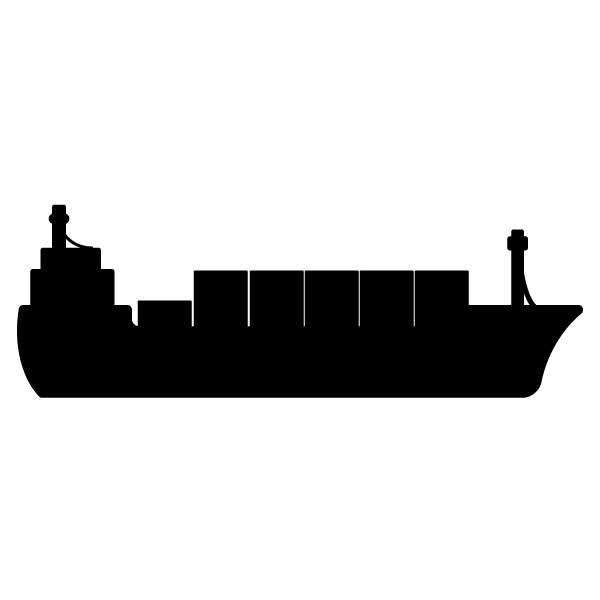
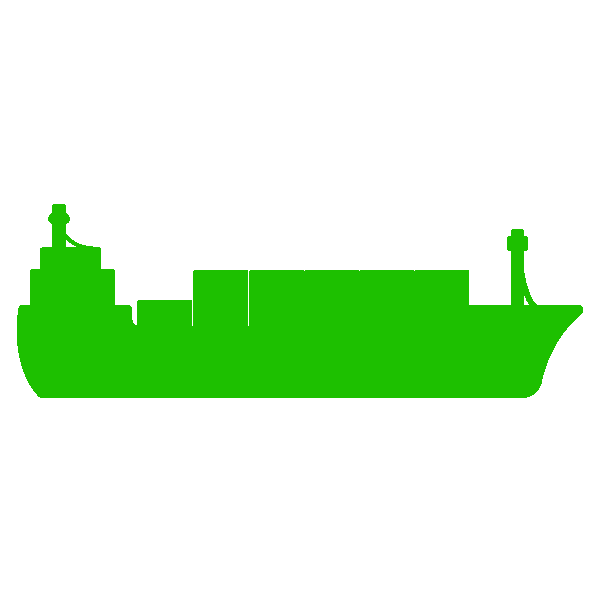
Fix bugs with clone() function. Update images with color.

Changed region(s): [[0.03, 0.33, 0.99, 0.69]]

diff --git a/src/js/simulation/Ships.js b/src/js/simulation/Ships.js
@@ -17,6 +17,15 @@ const MoveDirections = Object.freeze({
     West:  [-1, 0]
 });
 
+function cloneMoveDirection(mvDir) {
+    let ret = [];
+    for (let i = 0; i < mvDir.length; i++) {
+        const val = mvDir[i];
+        ret.push(val);
+    }
+    return ret;
+}
+
 // The default move directions for ships on spawn
 const ShipMoveDirections = Object.freeze({
     Cargo: MoveDirections.East,
@@ -102,12 +111,19 @@ class CargoShip extends Ship {
         for (let i = 0; i < frame.pirateList.length; i++) {
             const pirate = frame.pirateList[i];
             
-            // We can evade the pirate if all these conditions are met 
-            if (this.inRangeStrict(pirate, 4) && !this.evadedPirates.includes(pirate.UniqueID)) {
+            // We cannot evade a pirate twice
+            for (let i = 0; i < this.evadedPirates.length; i++) {
+                const UID = this.evadedPirates[i];
+                if (pirate.UniqueID == UID) {
+                    return;
+                }
+            }
+            if (this.inRangeStrict(pirate, 4)) {
                 // From the requirements it looks like we can only evade one pirate in a tick
                 // so we break out of this loop after evading a pirate
                 this.xPos = tempX;
                 this.yPos = tempY;
+                this.evadedPirates.push(pirate.UniqueID);
                 break;
             }
         }
@@ -116,7 +132,17 @@ class CargoShip extends Ship {
     // NOTE that clone() preserves the UID, so do not use it to create new entities,
     // rather it is meant to clone the entities between the frames
     clone() {
-        return new CargoShip(this.xPos, this.yPos, this.UniqueID);
+        let nShip = new CargoShip(this.xPos, this.yPos, this.UniqueID);
+        for (let i = 0; i < this.evadedPirates.length; i++) {
+            const num = this.evadedPirates[i];
+            nShip.evadedPirates.push(num);
+        }
+        nShip.moveDirection = [];
+        for (let i = 0; i < this.moveDirection.length; i++) {
+            const num = this.moveDirection[i];
+            nShip.moveDirection.push(num);
+        }
+        return nShip;
     }
 }
 
@@ -151,7 +177,13 @@ class PatrolShip extends Ship {
     // NOTE that clone() preserves the UID, so do not use it to create new entities,
     // rather it is meant to clone the entities between the frames
     clone() {
-        return new PatrolShip(this.xPos, this.yPos, this.UniqueID);
+        let nShip = new PatrolShip(this.xPos, this.yPos, this.UniqueID);
+        nShip.moveDirection = [];
+        for (let i = 0; i < this.moveDirection.length; i++) {
+            const num = this.moveDirection[i];
+            nShip.moveDirection.push(num);
+        }
+        return nShip;
     }
 }
 
@@ -172,7 +204,7 @@ class PirateShip extends Ship {
             if (this.inRangeLoose(cargo, 3)) {
                 frame.convertCargoToCapture(cargo, this);
                 this.hasCapture = true;
-                this.moveDirection = MoveDirections.South;
+                this.moveDirection = ShipMoveDirections.Capture;
                 this.xPos = cargo.xPos;
                 this.yPos = cargo.yPos;
                 // We can only capture one cargo per pirate, so if we find one, we are done
@@ -184,7 +216,14 @@ class PirateShip extends Ship {
     // NOTE that clone() preserves the UID, so do not use it to create new entities,
     // rather it is meant to clone the entities between the frames
     clone() {
-        return new PirateShip(this.xPos, this.yPos, this.UniqueID);
+        let nShip = new PirateShip(this.xPos, this.yPos, this.UniqueID);
+        nShip.hasCapture = this.hasCapture;
+        nShip.moveDirection = [];
+        for (let i = 0; i < this.moveDirection.length; i++) {
+            const num = this.moveDirection[i];
+            nShip.moveDirection.push(num);
+        }
+        return nShip;
     }
 }
 
@@ -201,6 +240,12 @@ class CaptureShip extends Ship {
     // NOTE that clone() preserves the UID, so do not use it to create new entities,
     // rather it is meant to clone the entities between the frames
     clone() {
-        return new CaptureShip(this.xPos, this.yPos, this.UniqueID);
+        let nShip = new CaptureShip(this.xPos, this.yPos, this.UniqueID, this.pirateUID);
+        nShip.moveDirection = [];
+        for (let i = 0; i < this.moveDirection.length; i++) {
+            const num = this.moveDirection[i];
+            nShip.moveDirection.push(num);
+        }
+        return nShip;
     }
 }

diff --git a/src/js/simulation/sketch.js b/src/js/simulation/sketch.js
@@ -10,6 +10,7 @@ let captureImage;
 // Graphics variables
 let scaleFactor = 1;
 let translateX = 0, translateY = 0;
+let worldXRatio, worldYRatio;
 
 function preload() {
     bgImage = loadImage("images/gulfofaden.png");
@@ -24,21 +25,37 @@ function setup() {
     createCanvas(screen.width, screen.width / 3, document.getElementById("P5-DRAWING-CANVAS"));
     background(0, 0, 0);
     simManager = new SimManager();
+    worldXRatio = screen.width / simManager.simulation.initialConditions.simDimensions[1];
+    worldYRatio = (screen.width / 3) / simManager.simulation.initialConditions.simDimensions[0];
 }
 
 function draw() {
     simManager.tick();
-    // put drawing code here
-    background(0, 0, 0);
-
-    lockToViewport();
 
     // Manage zooming relative to the mouse and panning
+    lockToViewport();
     translate(translateX, translateY);
     scale(scaleFactor);
 
+    // Draw the map
+    imageMode(CORNER);
     image(bgImage, 0, 0, screen.width, screen.width / 3);
 
+    // Draw all the entities
+    imageMode(CENTER);
+    let frame = simManager.simulation.getCurrentFrame();
+    frame.cargoList.forEach(cargo => {
+        image(cargoImage, cargo.xPos * worldXRatio, cargo.yPos * worldYRatio, 30, 30);
+    });
+    frame.patrolList.forEach(patrol => {
+        image(patrolImage, patrol.xPos * worldXRatio, patrol.yPos * worldYRatio, 30, 30);
+    });
+    frame.pirateList.forEach(pirate => {
+        image(pirateImage, pirate.xPos * worldXRatio, pirate.yPos * worldYRatio, 30, 30);
+    });
+    frame.captureList.forEach(capture => {
+        image(captureImage, capture.xPos * worldXRatio, capture.yPos * worldYRatio, 30, 30);
+    });
 }
 
 function lockToViewport() {

diff --git a/src/js/simulation/SimManager.js b/src/js/simulation/SimManager.js
@@ -15,9 +15,9 @@ class SimManager {
         }
         
         let currentTime = performance.now();
-        if (currentTime - this.prevTime >= this.frametime) {
+        if (currentTime - this.prevTime >= this.frametime || this.singleStepMode) {
             this.simulation.tick();
-            console.log(this.simulation.toString("   "));
+            //console.log(this.simulation.toString("   "));
             this.prevTime = performance.now();
         }
 

diff --git a/src/js/simulation/Simulation.js b/src/js/simulation/Simulation.js
@@ -81,6 +81,10 @@ class Simulation {
         this.frames.push(newFrame);
     }
 
+    getCurrentFrame() {
+        return this.frames[this.currentFrameNumber];
+    }
+
     toString() {
         let ret = "=== Sim Data (without initial cond. cells) ===\n";
         ret += "\t" + "Current Sim Time    : " + this.currentSimTime + " minutes \n";

diff --git a/src/js/simulation/Frame.js b/src/js/simulation/Frame.js
@@ -34,6 +34,7 @@ class Frame {
     }
 
     convertCaptureToCargo(capture) {
+        this.removeEntity(capture.pirateUID);
         this.removeEntity(capture);
         this.addEntity(new CargoShip(capture.xPos, capture.yPos, capture.UniqueID));
     }
